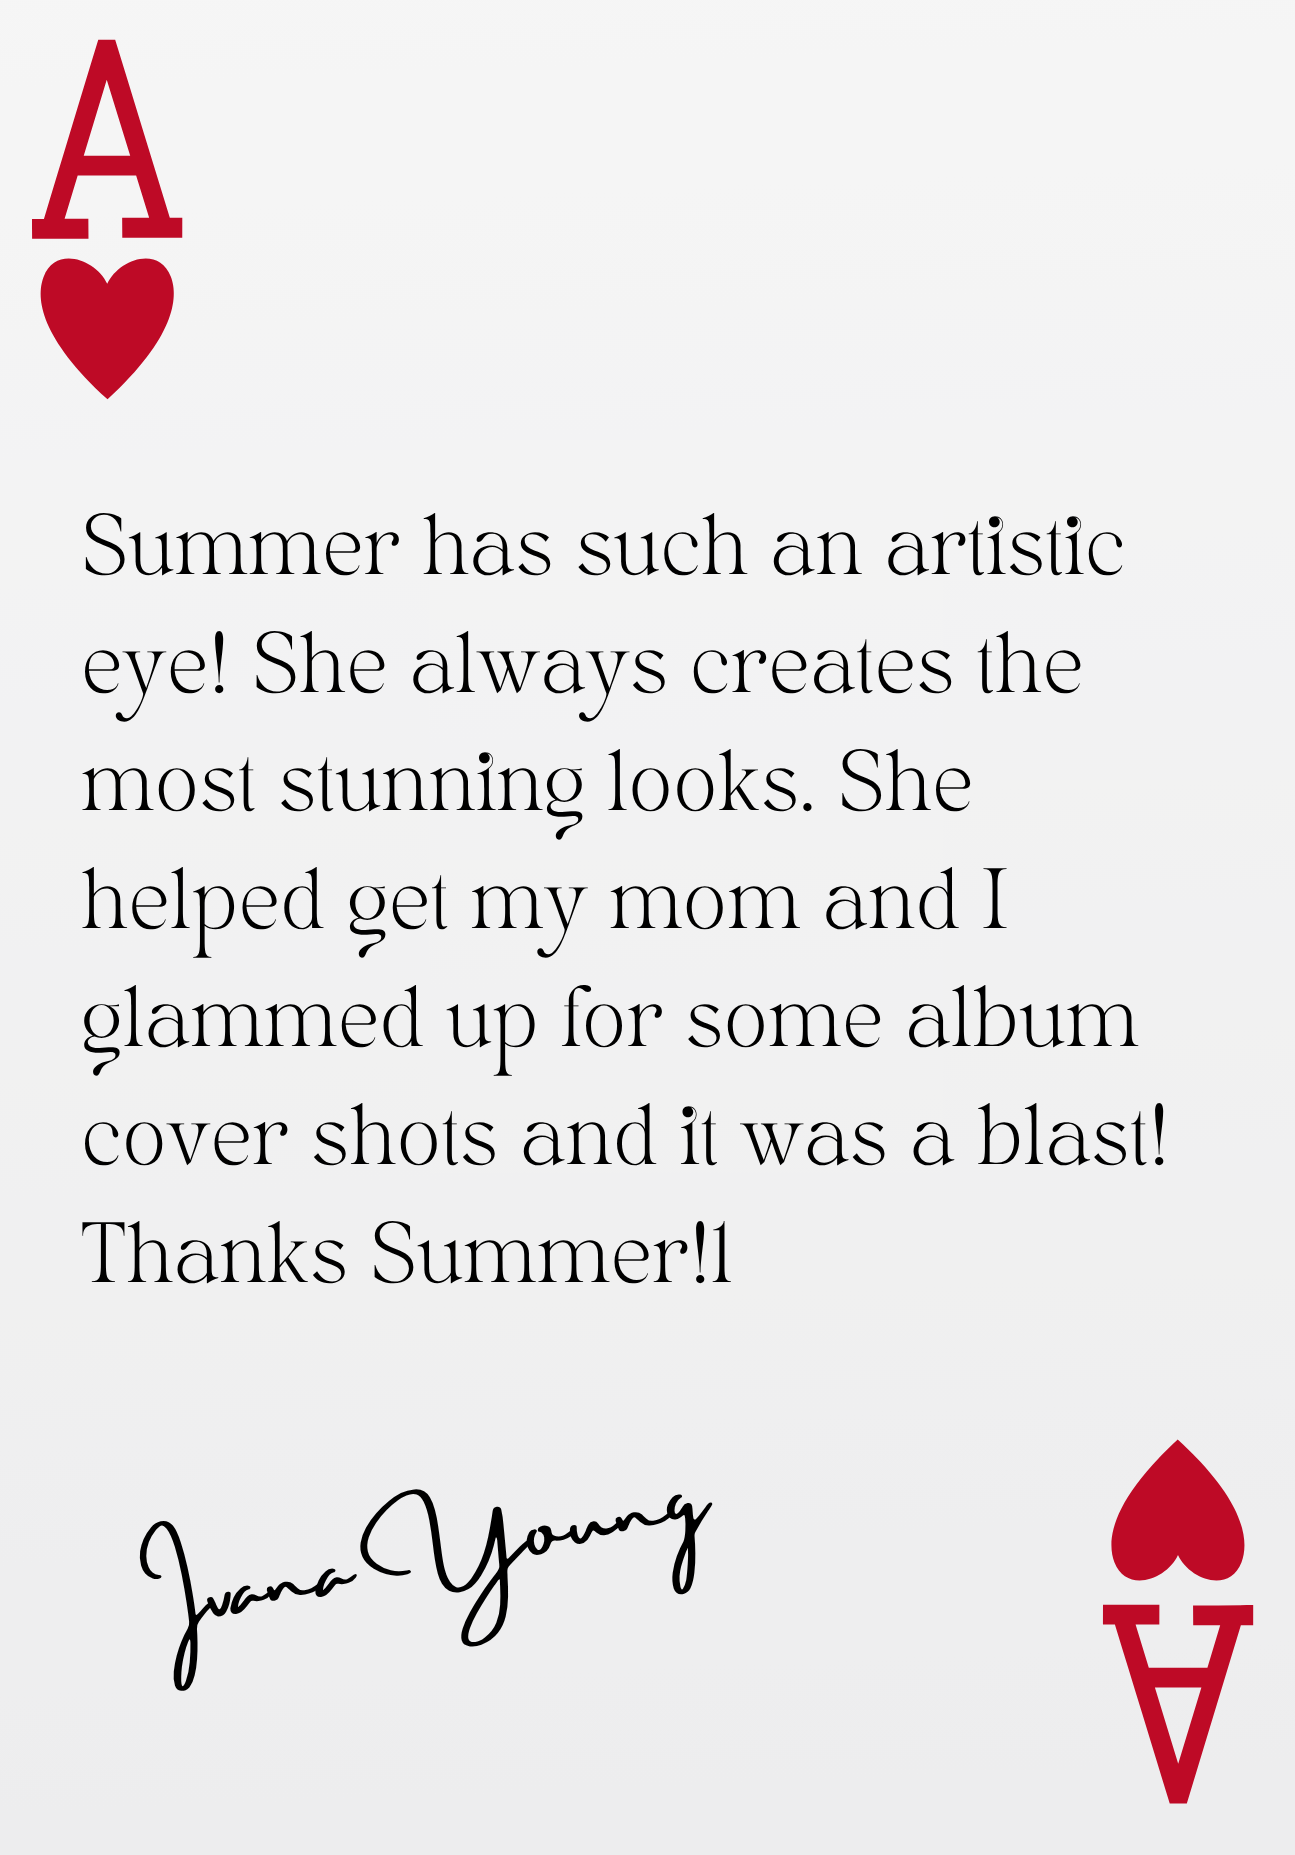
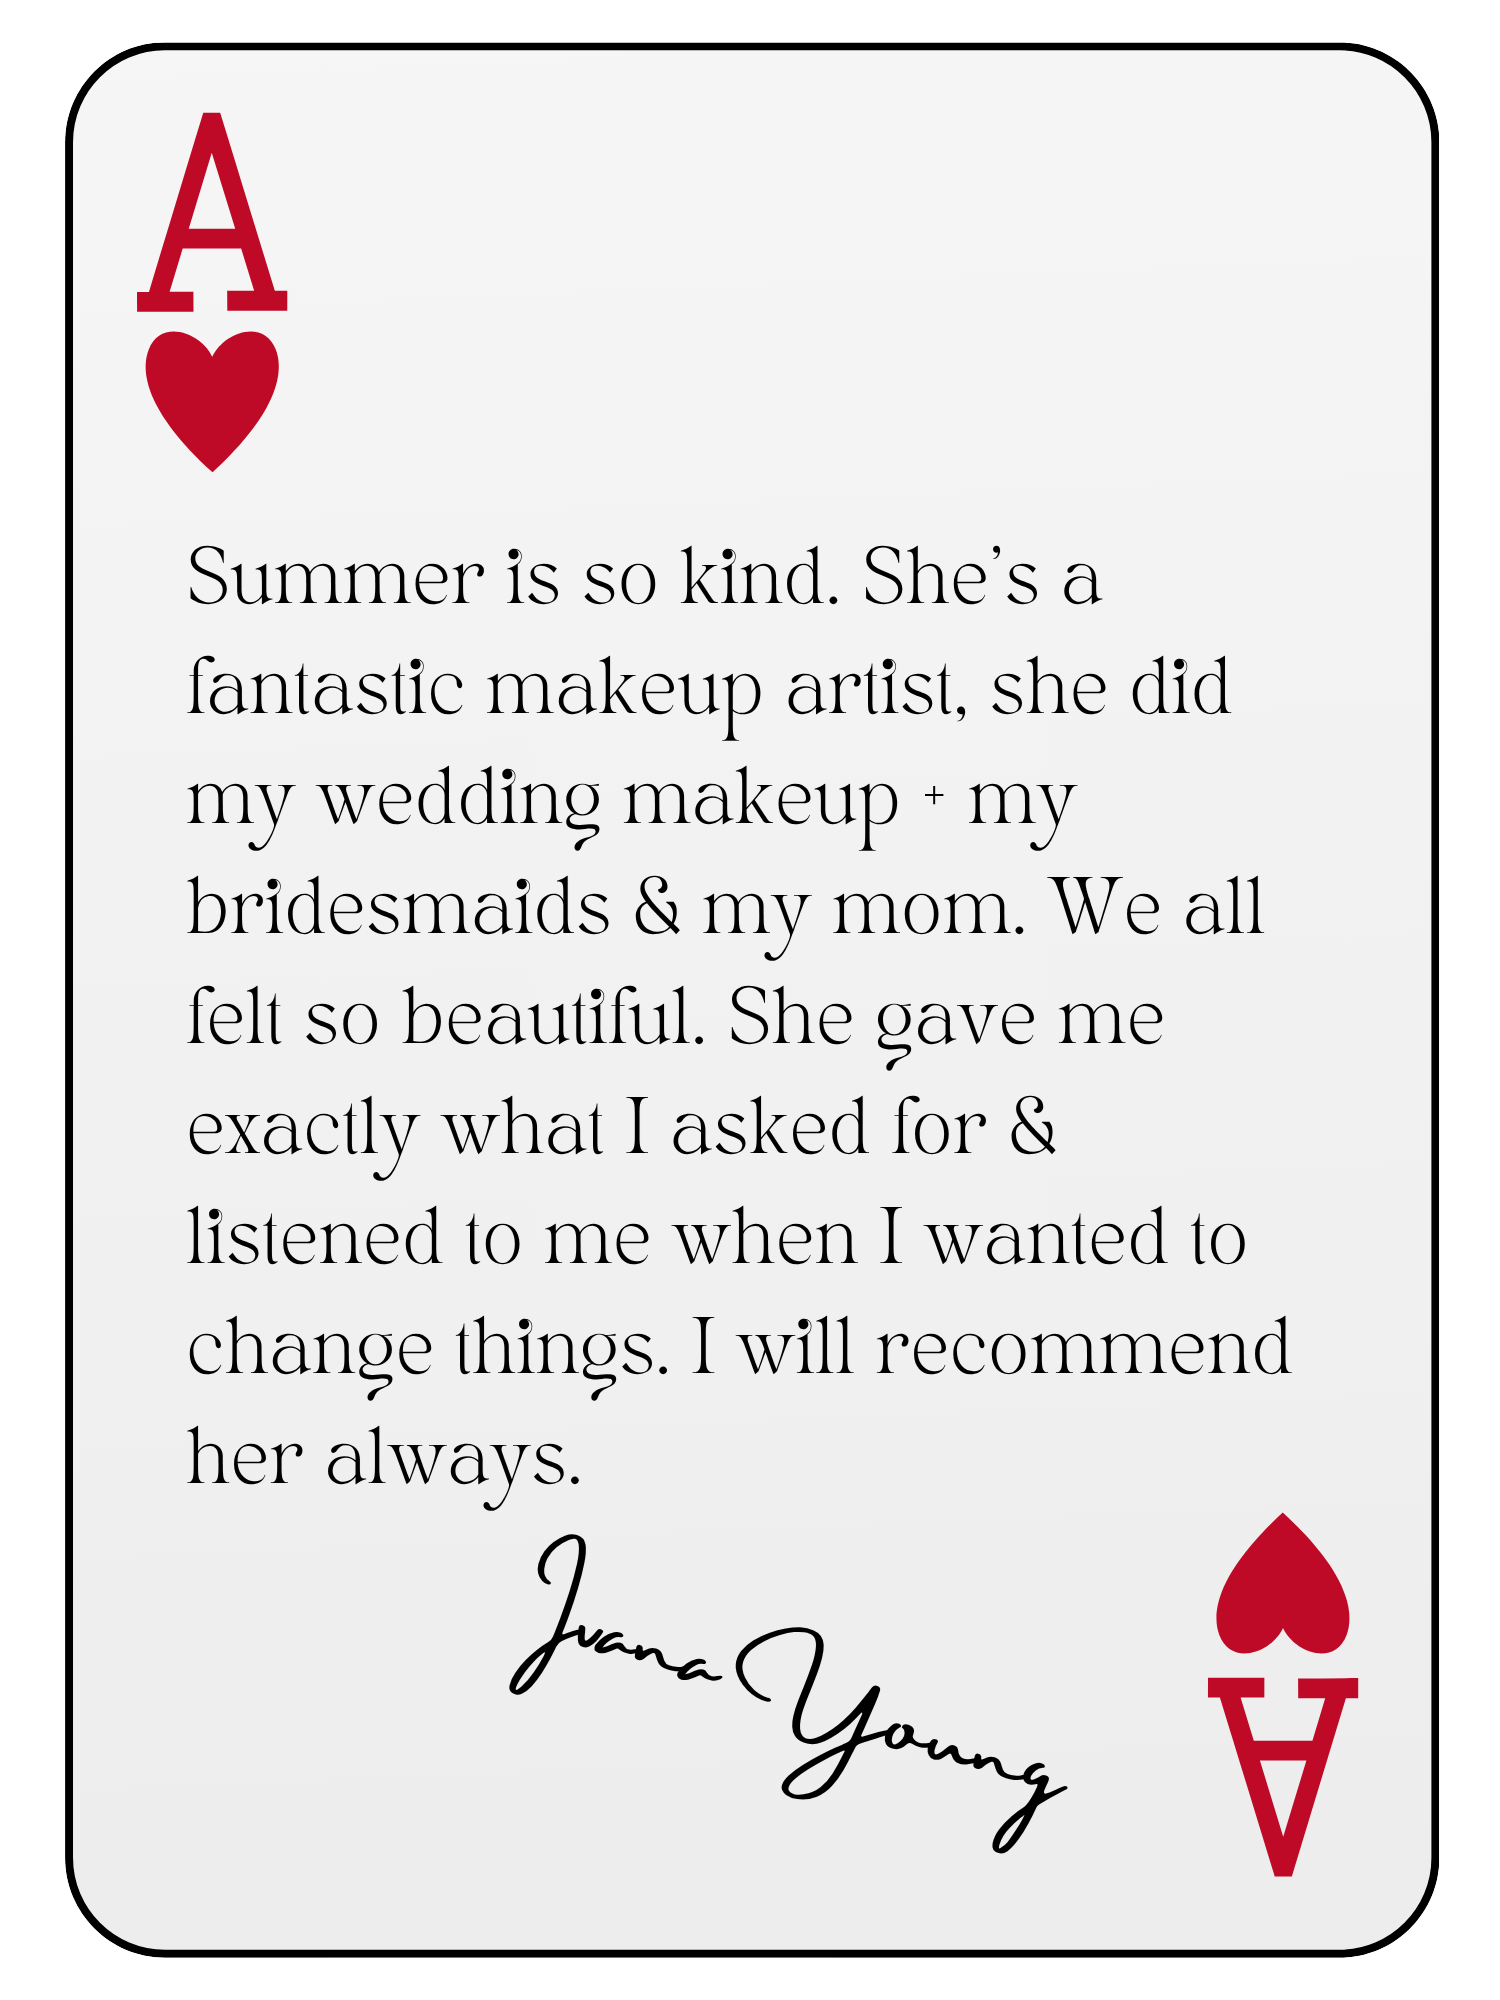
updated testimonials

diff --git a/components/home/testimonials.tsx b/components/home/testimonials.tsx
@@ -24,6 +24,9 @@ export function CarouselSize() {
     "/testimonials/t2.png",
     "/testimonials/t4.png",
     "/testimonials/t5.png",
+    "/testimonials/t6.png",
+    "/testimonials/t7.png",
+    "/testimonials/t8.png",
   ];
 
   return (
@@ -79,7 +82,7 @@ export function CarouselSize() {
       <div className="flex items-center justify-center mt-10 relative z-10">
         <Carousel
           opts={{ align: "start" }}
-          className="w-full max-w-6xl px-4 sm:px-8"
+          className="w-full max-w-5xl px-4 sm:px-8"
         >
           <CarouselContent>
             {testimonialImages.map((src, index) => (
@@ -97,7 +100,7 @@ export function CarouselSize() {
                     alt={`testimonial ${index + 1}`}
                     width={300}
                     height={300}
-                    className="rounded-xl mt-2 border-2 border-black w-full max-w-xs sm:max-w-sm md:max-w-md h-auto object-contain"
+                    className="rounded-xl ml-4 max-w-xs sm:max-w-sm md:max-w-md h-auto object-contain "
                   />
                 </div>
               </CarouselItem>
@@ -115,7 +118,7 @@ export function CarouselSize() {
           alt="Lipmark"
           width={80}
           height={80}
-          className="object-cover"
+          className="object-cover ml-2"
         />
       </div>
     </div>
